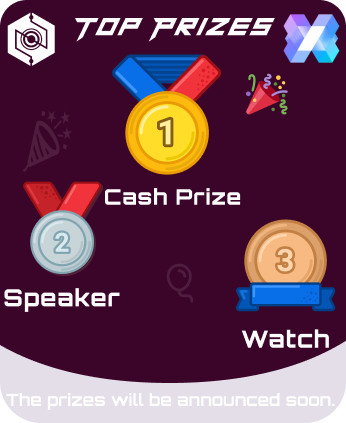
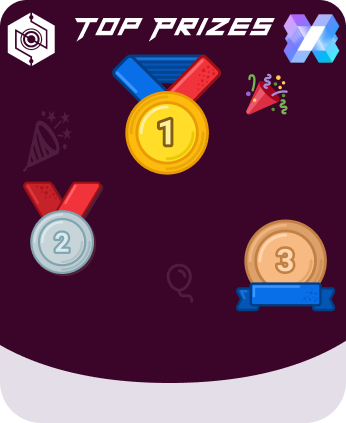
Textboxes in prizes and home

diff --git a/lib/prizePage.dart b/lib/prizePage.dart
@@ -1,3 +1,4 @@
+import 'package:flutter/cupertino.dart';
 import 'package:flutter/material.dart';
 
 class prizePage extends StatelessWidget {
@@ -57,16 +58,51 @@ class prizePage extends StatelessWidget {
           SizedBox(
             height: screenHeight * 0.1,
           ),
-          Padding(
-            padding: const EdgeInsets.all(8.0),
-            child: SizedBox(
-              height: screenHeight * 0.5,
-              child: Image.asset(
-                'assets/prizes.png',
-                fit: BoxFit.contain,
+          Stack(children: [
+            Padding(
+              padding: const EdgeInsets.all(8.0),
+              child: SizedBox(
+                height: screenHeight * 0.5,
+                child: Image.asset(
+                  'assets/prizes.png',
+                  fit: BoxFit.contain,
+                ),
               ),
             ),
-          ),
+            Positioned(
+                top: screenHeight * 0.22,
+                left: screenWidth * 0.35,
+                child: Text(
+                  'Prize 1',
+                  style: TextStyle(
+                      color: Colors.white,
+                      fontSize: screenHeight * 0.03,
+                      fontWeight: FontWeight.w900,
+                      fontFamily: 'Orbitron'),
+                )),
+            Positioned(
+                top: screenHeight * 0.34,
+                left: screenWidth * 0.08,
+                child: Text(
+                  'Prize 2',
+                  style: TextStyle(
+                      color: Colors.white,
+                      fontSize: screenHeight * 0.025,
+                      fontWeight: FontWeight.w900,
+                      fontFamily: 'Orbitron'),
+                )),
+            Positioned(
+                top: screenHeight * 0.38,
+                left: screenWidth * 0.665,
+                child: Text(
+                  'Prize 3',
+                  style: TextStyle(
+                      color: Colors.white,
+                      fontSize: screenHeight * 0.025,
+                      fontWeight: FontWeight.w900,
+                      fontFamily: 'Orbitron'),
+                )),
+          ]),
         ],
       ),
     );

diff --git a/lib/features/home/screens/home.dart b/lib/features/home/screens/home.dart
@@ -1,3 +1,4 @@
+import 'package:flutter/cupertino.dart';
 import 'package:flutter/material.dart';
 import 'package:paradox_2024/features/home/screens/comingsoon.dart';
 import 'package:paradox_2024/features/home/screens/question_card_widget.dart';
@@ -32,13 +33,48 @@ class HomeScreen extends StatelessWidget {
             ],
           ),
         ),
-        Padding(
-          padding: EdgeInsets.all(screenHeight * 0.01),
-          child: SizedBox(
-            height: screenHeight * 0.4,
-            child: Image.asset('assets/bootom_nav_bar_icons/score_board.png'),
+        Stack(children: [
+          Padding(
+            padding: EdgeInsets.all(screenHeight * 0.01),
+            child: SizedBox(
+              height: screenHeight * 0.4,
+              child: Image.asset('assets/bottom_nav_bar_icons/score_board.png'),
+            ),
           ),
-        ),
+          Positioned(
+              top: screenHeight * 0.25,
+              left: screenWidth * 0.43,
+              child: Text(
+                'Name 1',
+                style: TextStyle(
+                  color: Colors.white,
+                    fontSize: screenHeight * 0.015,
+                    fontWeight: FontWeight.bold,
+                    fontFamily: 'Orbitron'),
+              )),
+          Positioned(
+              top: screenHeight * 0.28,
+              left: screenWidth * 0.14,
+              child: Text(
+                'Name 2',
+                style: TextStyle(
+                    color: Colors.white,
+                    fontSize: screenHeight * 0.013,
+                    fontWeight: FontWeight.bold,
+                    fontFamily: 'Orbitron'),
+              )),
+          Positioned(
+              top: screenHeight * 0.305,
+              left: screenWidth * 0.74,
+              child: Text(
+                'Name 3',
+                style: TextStyle(
+                    color: Colors.white,
+                    fontSize: screenHeight * 0.013,
+                    fontWeight: FontWeight.bold,
+                    fontFamily: 'Orbitron'),
+              )),
+        ]),
         GestureDetector(
           onTap: () {
             print(difference.inDays);

diff --git a/lib/bottomNavBar.dart b/lib/bottomNavBar.dart
@@ -24,11 +24,11 @@ class _BottomNavBARState extends State<BottomNavBAR> {
   }
 
   List bottomNavBarItemAssetList = const [
-    'assets/bootom_nav_bar_icons/home.png',
-    'assets/bootom_nav_bar_icons/leaderboard.png',
-    'assets/bootom_nav_bar_icons/rules.png',
-    'assets/bootom_nav_bar_icons/prize.png',
-    'assets/bootom_nav_bar_icons/profile.png',
+    'assets/bottom_nav_bar_icons/home.png',
+    'assets/bottom_nav_bar_icons/leaderboard.png',
+    'assets/bottom_nav_bar_icons/rules.png',
+    'assets/bottom_nav_bar_icons/prize.png',
+    'assets/bottom_nav_bar_icons/profile.png',
   ];
 
   List<Widget> pages = [
@@ -53,7 +53,7 @@ class _BottomNavBARState extends State<BottomNavBAR> {
             ),
           ),
           SafeArea(
-            child: pages[selectedIndex], // Display selected page
+            child: pages[selectedIndex],
           ),
         ],
       ),
